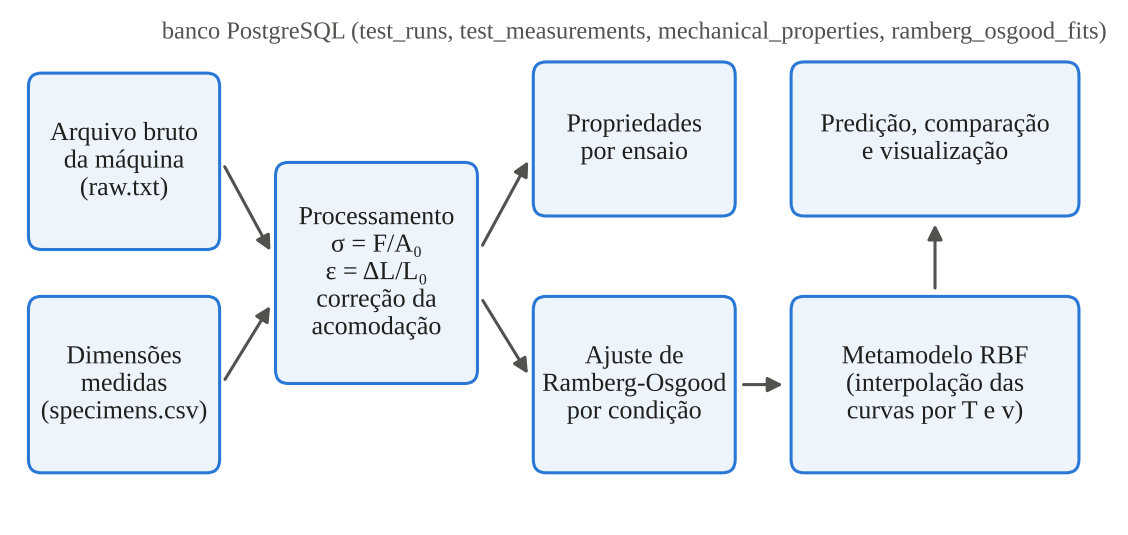
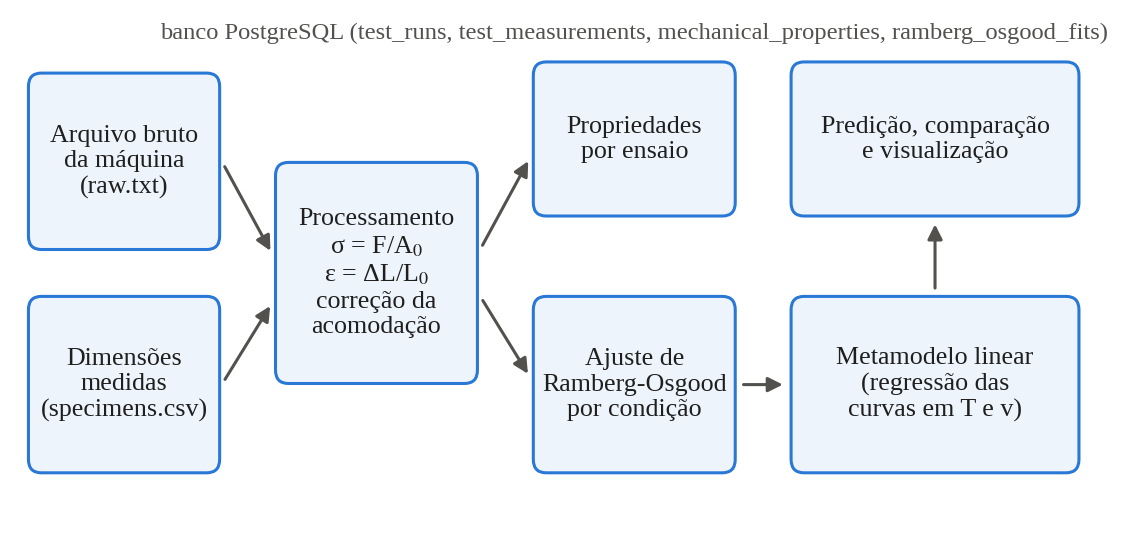
docs(figuras): regera as figuras afetadas pelo metamodelo linear

diff --git a/scripts/analysis/figures.py b/scripts/analysis/figures.py
@@ -29,6 +29,7 @@ plt.rcParams.update(
     {
         "font.family": "serif",
         "font.serif": ["Liberation Serif", "Times New Roman", "DejaVu Serif"],
+        "mathtext.fontset": "stix",
         "font.size": 10,
         "axes.titlesize": 10,
         "axes.labelsize": 10,
@@ -149,12 +150,12 @@ def fig_n_effect():
         ax.plot(ro_strain(sigma, E, s0, n), sigma, color=SERIES[i], ls=LINESTYLES[i], label=f"n = {n}")
     ax.plot(sigma / E, sigma, color=RAW, lw=1, label="parcela elástica (σ/E)")
     ax.axhline(s0, color=INK_2, lw=0.7, ls=":")
-    ax.text(0.001, s0 + 0.8, "σ₀ = 40 MPa", fontsize=8.5, color=INK_2)
+    ax.text(0.001, s0 + 0.8, "σ$_0$ = 40 MPa", fontsize=8.5, color=INK_2)
     ax.set_xlim(0, 0.12)
     ax.set_ylim(0, 50)
     style_axes(ax)
     ax.legend(loc="lower right")
-    ax.set_title("Modelo de Ramberg-Osgood com E = 590 MPa e σ₀ = 40 MPa", loc="left", color=INK)
+    ax.set_title("Modelo de Ramberg-Osgood com E = 590 MPa e σ$_0$ = 40 MPa", loc="left", color=INK)
     save(fig, "modelo_efeito_n.png")
 
 
@@ -166,7 +167,7 @@ def fig_flow():
     boxes = [
         (1, 24, 17, 15, "Arquivo bruto\nda máquina\n(raw.txt)"),
         (1, 4, 17, 15, "Dimensões\nmedidas\n(specimens.csv)"),
-        (24, 12, 18, 19, "Processamento\nσ = F/A₀\nε = ΔL/L₀\ncorreção da\nacomodação"),
+        (24, 12, 18, 19, "Processamento\nσ = F/A$_0$\nε = ΔL/L$_0$\ncorreção da\nacomodação"),
         (48, 27, 18, 13, "Propriedades\npor ensaio"),
         (48, 4, 18, 15, "Ajuste de\nRamberg-Osgood\npor condição"),
         (72, 4, 26, 15, "Metamodelo linear\n(regressão das\ncurvas em T e v)"),
@@ -284,7 +285,7 @@ def fig_fit(cond="A12"):
     profile = f"T{TEMPS[cond[1]]}_V{SPEEDS[cond[2]]}"
     p = tr.loc[profile]
     ax.plot(f.deformacao, f.tensao_mpa, color=MODEL, lw=1.6,
-            label=f"ajuste (E = {comma(round(p.E_mpa))} MPa; σ₀ = {comma(round(p.sigma0_mpa, 1))} MPa; n = {comma(round(p.n, 2))})")
+            label=f"ajuste (E = {comma(round(p.E_mpa))} MPa; σ$_0$ = {comma(round(p.sigma0_mpa, 1))} MPa; n = {comma(round(p.n, 2))})")
     row = conditions.set_index("condicao").loc[cond]
     ax.text(0.98, 0.06, f"R² médio dos ajustes por ensaio = {comma(round(row.ro_r2_medio, 4))}", transform=ax.transAxes,
             ha="right", fontsize=8.5, color=INK_2)
@@ -355,8 +356,8 @@ def fig_cv_scatter():
     ax.plot([lo, hi], [lo, hi], color=INK_2, lw=0.8, ls="--", label="predição perfeita")
     ax.errorbar(real, pred, xerr=sd, fmt="o", color=SERIES[0], ms=5, capsize=2, lw=1,
                 label="condição (barra: desvio padrão dos ensaios)")
-    placement = {"A00": (-5, 4, "right"), "A01": (-5, -10, "right"), "A02": (3, 5, "left"), "A10": (4, -11, "left"),
-                 "A11": (-5, 5, "right"), "A12": (4, 5, "left"), "A20": (4, -11, "left"), "A21": (-5, 5, "right"),
+    placement = {"A00": (-5, 4, "right"), "A01": (-5, -10, "right"), "A02": (3, 5, "left"), "A10": (-4, -11, "right"),
+                 "A11": (6, -11, "left"), "A12": (4, 5, "left"), "A20": (4, -11, "left"), "A21": (-5, 5, "right"),
                  "A22": (4, -11, "left")}
     for cond, x, y in zip(cv.condicao, real, pred):
         dx, dy, ha = placement.get(cond, (4, 3, "left"))
